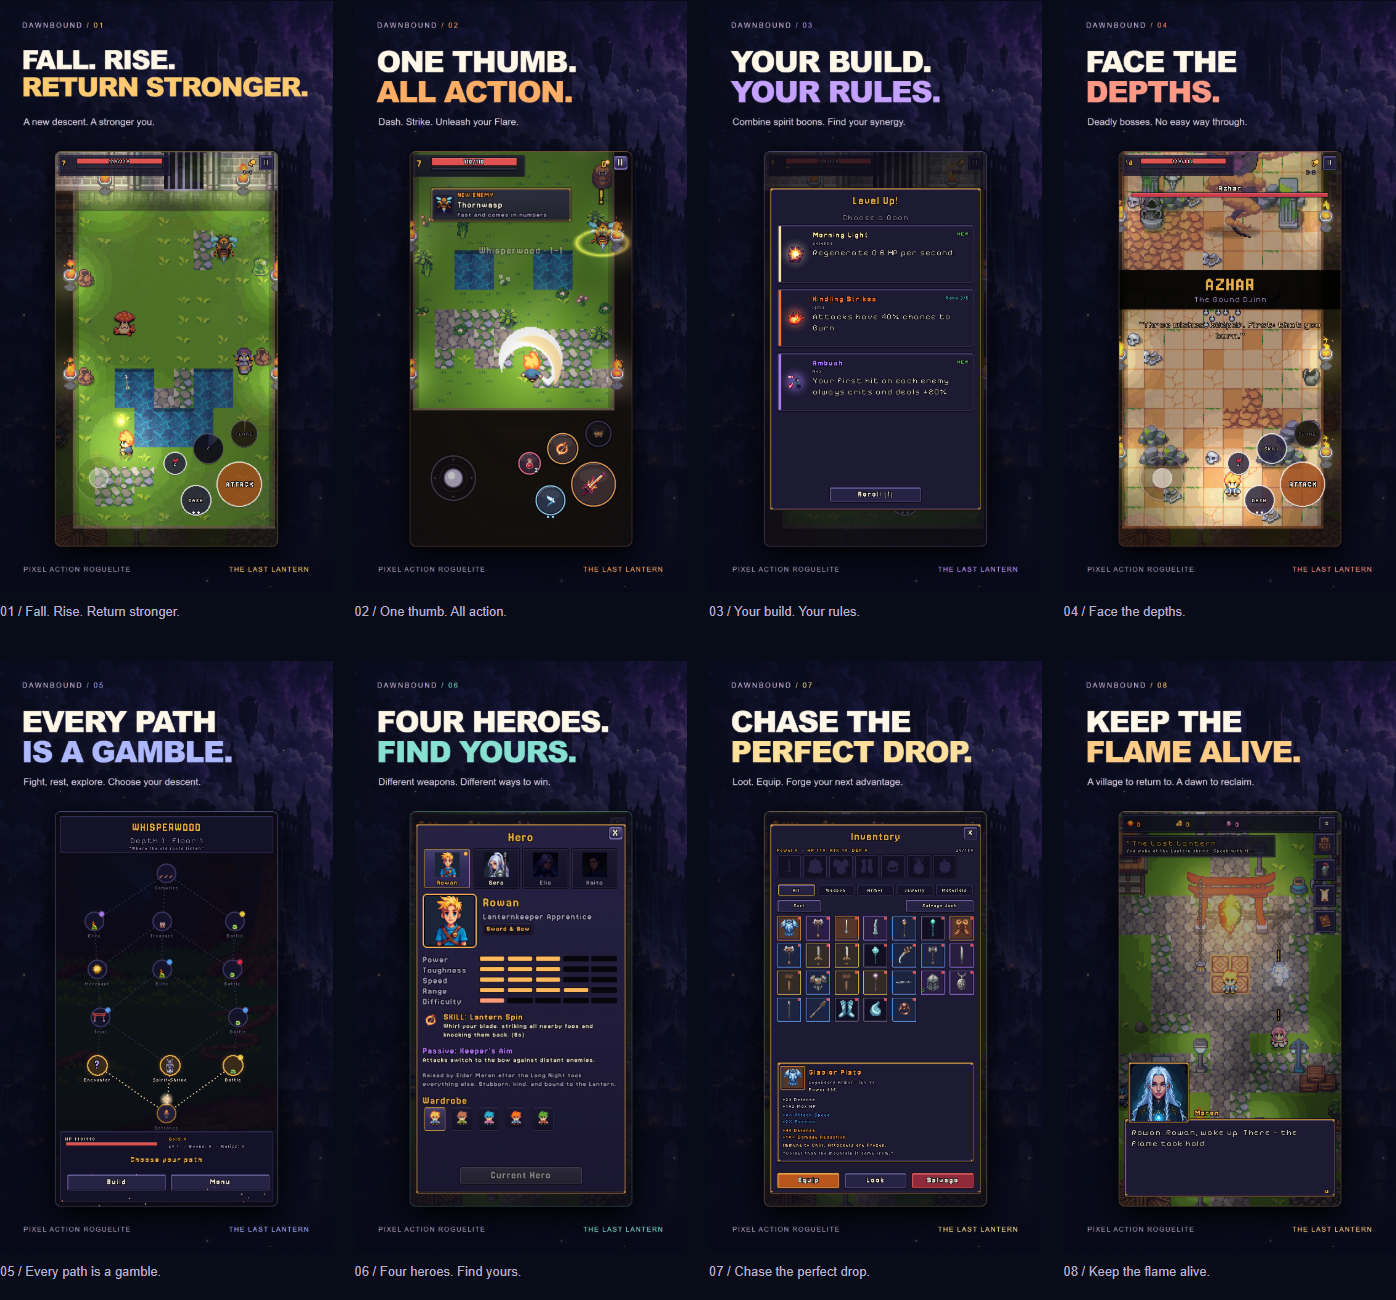
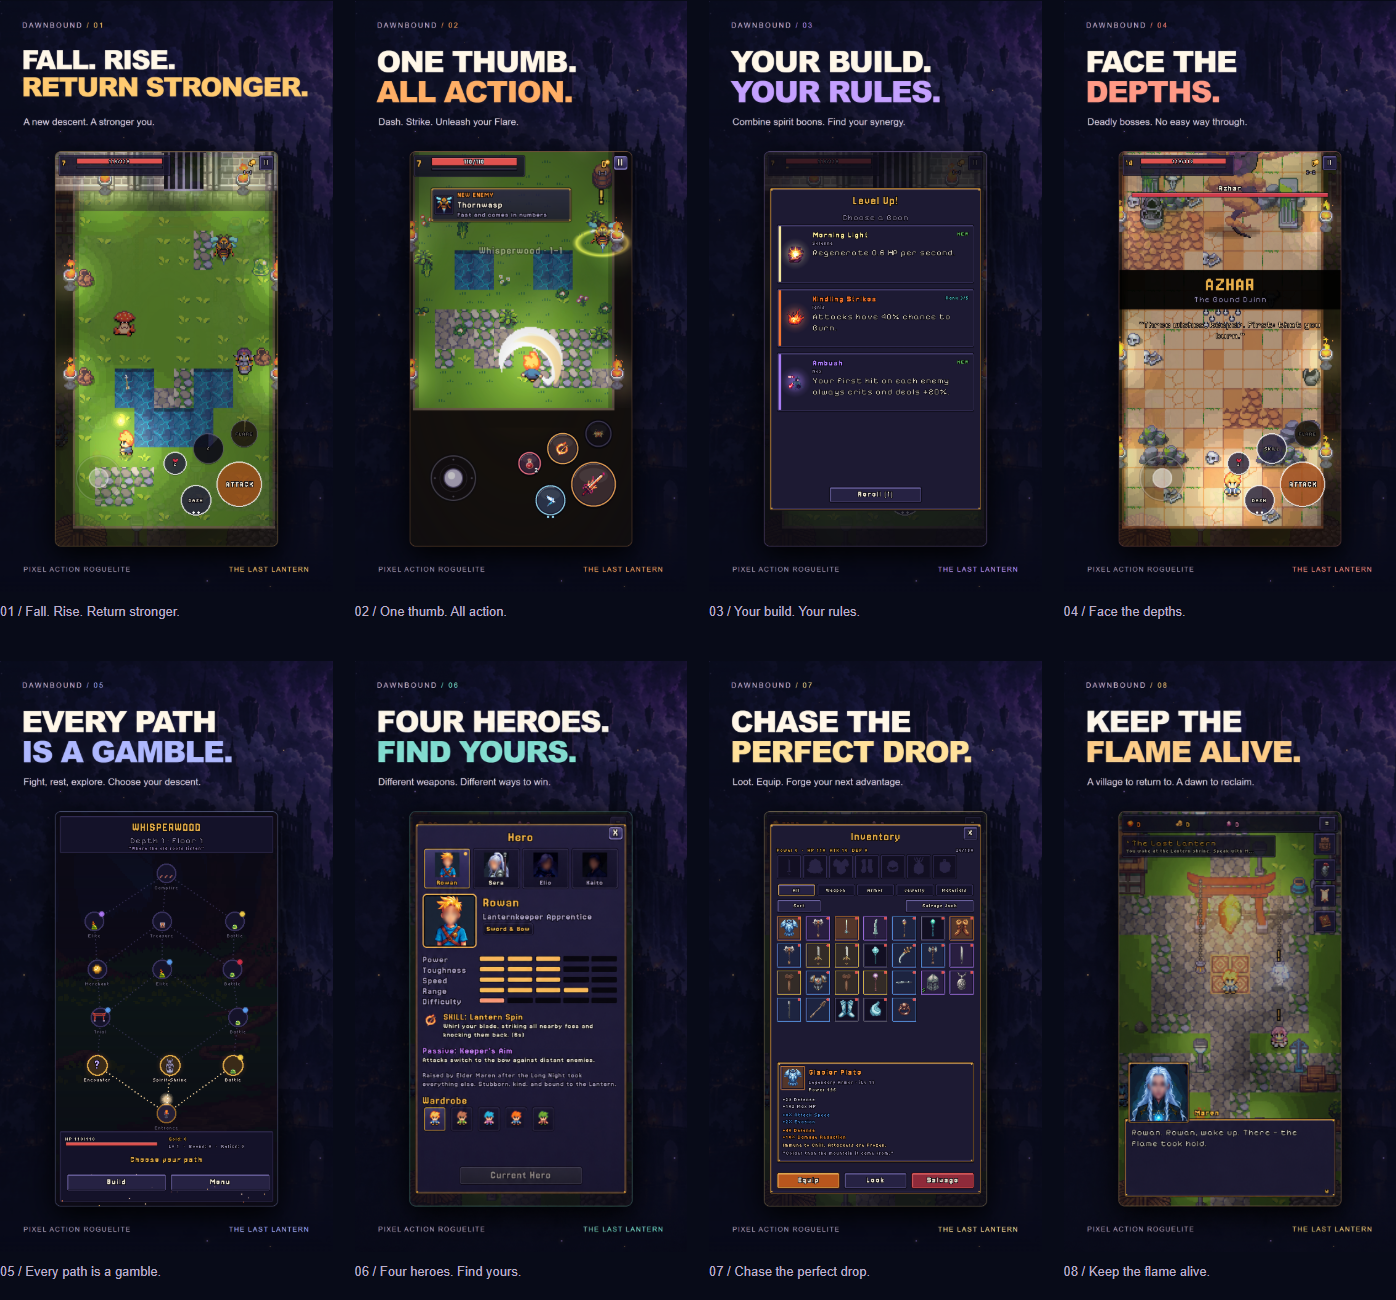
chore: blur character portraits in Store-6 and Store-8 screenshots

Changed region(s): [[0.8009, 0.8308, 0.8625, 0.8615], [0.308, 0.6462, 0.3388, 0.7077]]

diff --git a/store/launch-en/README.md b/store/launch-en/README.md
@@ -6,7 +6,7 @@ All campaign copy is in English. Creative direction: a single amber flame agains
 
 - `exports/App-Icon.png`: 512 × 512, full square app-store icon.
 - `exports/Feature-Graphic.png`: 1024 × 500 Google Play feature graphic.
-- `exports/Store-1.png` through `Store-8.png`: eight 1080 × 1920 phone screenshot creatives, in recommended display order.
+- `exports/Store-1.png` through `Store-8.png`: eight portrait phone screenshot creatives, in recommended display order. Store 6 and Store 8 use privacy-blurred character portraits at 941 × 1672; the other six are 1080 × 1920.
 - `exports/Dawnbound-Landscape.mp4`: 1920 × 1080, 30 fps, 28 seconds, H.264 video with game music.
 - `exports/Dawnbound-Vertical.mp4`: 1080 × 1920, 30 fps, 28 seconds, H.264 video with game music.
 - `play-listing.md`: English Google Play title, descriptions, privacy URL, and declaration reference.
